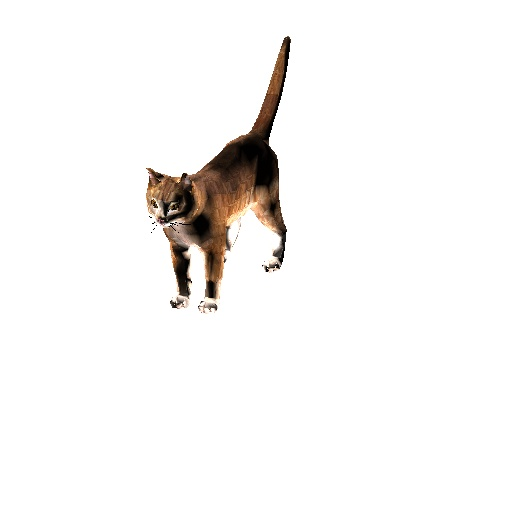
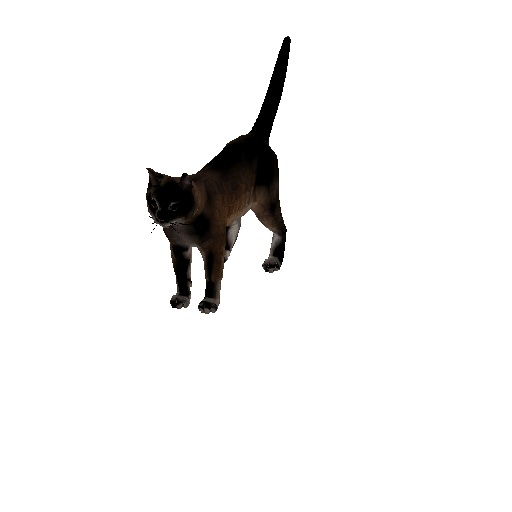
Fixed bug in normal vectors

Changed region(s): [[0.2812, 0.0625, 0.5625, 0.625]]

diff --git a/Ergasia_3/demo2.py b/Ergasia_3/demo2.py
@@ -1,0 +1,129 @@
+import cv2
+import numpy as np
+from render_object import render_object
+from prepareImgForOpenCV import prepareImgForOpenCV
+import time
+
+# Load the data
+data = np.load("hw3.npy", allow_pickle=True).item()
+texture_map = cv2.imread("cat_diff.png")
+# Convert the BGR texture_map to RGB format
+texture_map = cv2.cvtColor(texture_map, cv2.COLOR_BGR2RGB)
+texture_map = texture_map.astype(np.float32) / 255.0
+
+
+# ===================== STEP 0 ======================#
+# Use the function to create an image
+
+# Set start time
+
+# Set start time
+start = time.time()
+img_all_gouraud = render_object(
+    "gouraud",
+    data["focal"],
+    data["cam_eye"],
+    data["cam_lookat"],
+    data["cam_up"],
+    data["bg_color"],
+    data["M"],
+    data["N"],
+    data["H"],
+    data["W"],
+    data["verts"],
+    data["vertex_colors"],
+    data["face_indices"],
+    data["ka"],
+    data["kd"],
+    data["ks"],
+    data["n"],
+    data["light_positions"],
+    data["light_intensities"],
+    data["Ia"],
+    data["uvs"],
+    data["face_uv_indices"],
+    texture_map,
+)
+
+end = time.time()
+
+print(
+    "Render with Gouraud Shading and All Lighting finished in",
+    round(end - start, 2),
+    "seconds.",
+)
+
+
+# Set start time
+start = time.time()
+img_all_phong = render_object(
+    "phong",
+    data["focal"],
+    data["cam_eye"],
+    data["cam_lookat"],
+    data["cam_up"],
+    data["bg_color"],
+    data["M"],
+    data["N"],
+    data["H"],
+    data["W"],
+    data["verts"],
+    data["vertex_colors"],
+    data["face_indices"],
+    data["ka"],
+    data["kd"],
+    data["ks"],
+    data["n"],
+    data["light_positions"],
+    data["light_intensities"],
+    data["Ia"],
+    data["uvs"],
+    data["face_uv_indices"],
+    texture_map,
+)
+
+end = time.time()
+
+print(
+    "Render with Phong Shading and All Lighting finished in",
+    round(end - start, 2),
+    "seconds.",
+)
+
+
+# Convert the images to OpenCV format
+
+img_all_gouraud = prepareImgForOpenCV(img_all_gouraud)
+
+
+img_all_phong = prepareImgForOpenCV(img_all_phong)
+
+
+print()
+print("Saving images...")
+# Save the images
+
+cv2.imwrite("./Results/Gouraud All Lighting All Sources.jpg", img_all_gouraud)
+
+
+cv2.imwrite("./Results/Phong All Lighting All Sources.jpg", img_all_phong)
+
+
+print()
+print("All images saved in the Results folder.")
+
+# Display the images
+
+
+cv2.imshow("Gouraud All Lighting All Sources", img_all_gouraud)
+cv2.waitKey(100)
+
+cv2.imshow("Phong All Lighting All Sources", img_all_phong)
+cv2.waitKey(100)
+
+print("Press any key to close.")
+
+cv2.waitKey(0)
+
+
+cv2.destroyAllWindows()

diff --git a/Ergasia_3/normals.py b/Ergasia_3/normals.py
@@ -26,8 +26,13 @@ def calculate_normals(verts, faces):
         face_normal = face_normal / np.linalg.norm(face_normal)
 
         # Add the face normal to each of the triangle's vertices' normals
-        normals[idx1] = face_normal
-        normals[idx2] = face_normal
-        normals[idx3] = face_normal
+        normals[idx1] += face_normal
+        normals[idx2] += face_normal
+        normals[idx3] += face_normal
 
+    # Normalize the accumulated normals for each vertex, skipping zero normals
+    normals = [
+        normal / np.linalg.norm(normal) if np.linalg.norm(normal) != 0 else normal
+        for normal in normals
+    ]
     return np.array(normals)

diff --git a/Ergasia_3/bilerp.py b/Ergasia_3/bilerp.py
@@ -31,13 +31,9 @@ def bilerp(uv, texture_map):
     Q22 = texture_map[y2, x2]
 
     # Perform the bilinear interpolation
-    R1 = (1 - dx) * Q11 + dx * Q21
-    R1 = np.clip(R1, 0, 1)
-
-    R2 = (1 - dx) * Q12 + dx * Q22
-    R2 = np.clip(R2, 0, 1)
-
-    P = (1 - dy) * R1 + dy * R2
+    R1 = (1 - dy) * Q11 + dy * Q12
+    R2 = (1 - dy) * Q21 + dy * Q22
+    P = (1 - dx) * R1 + dx * R2
 
     # Clip values to ensure they are within [0, 1]
     P = np.clip(P, 0, 1)
